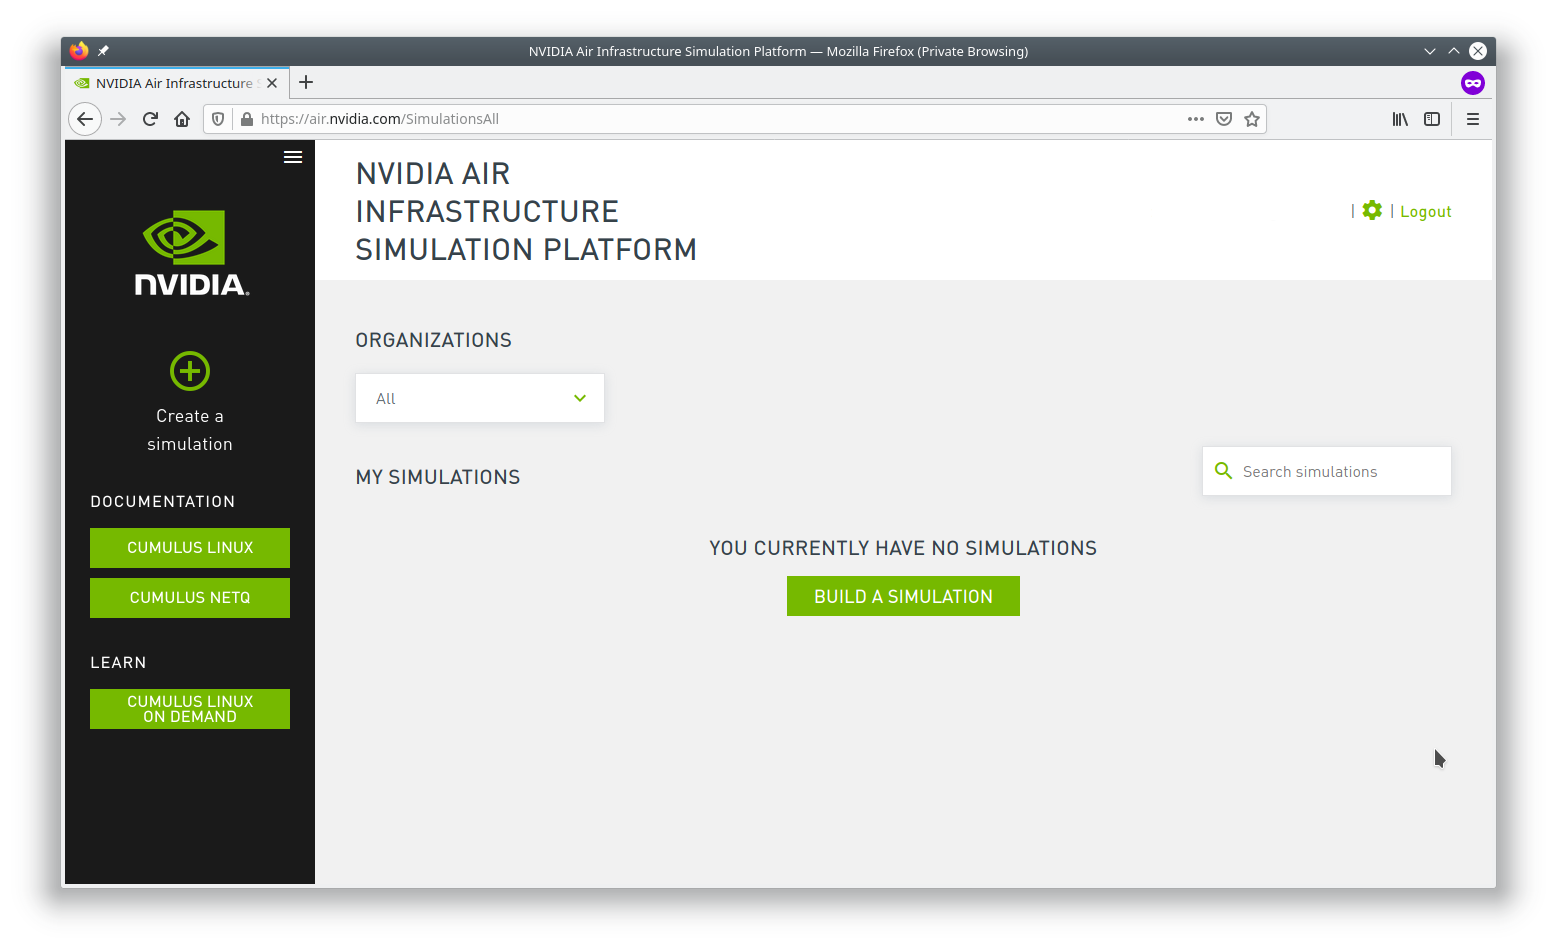
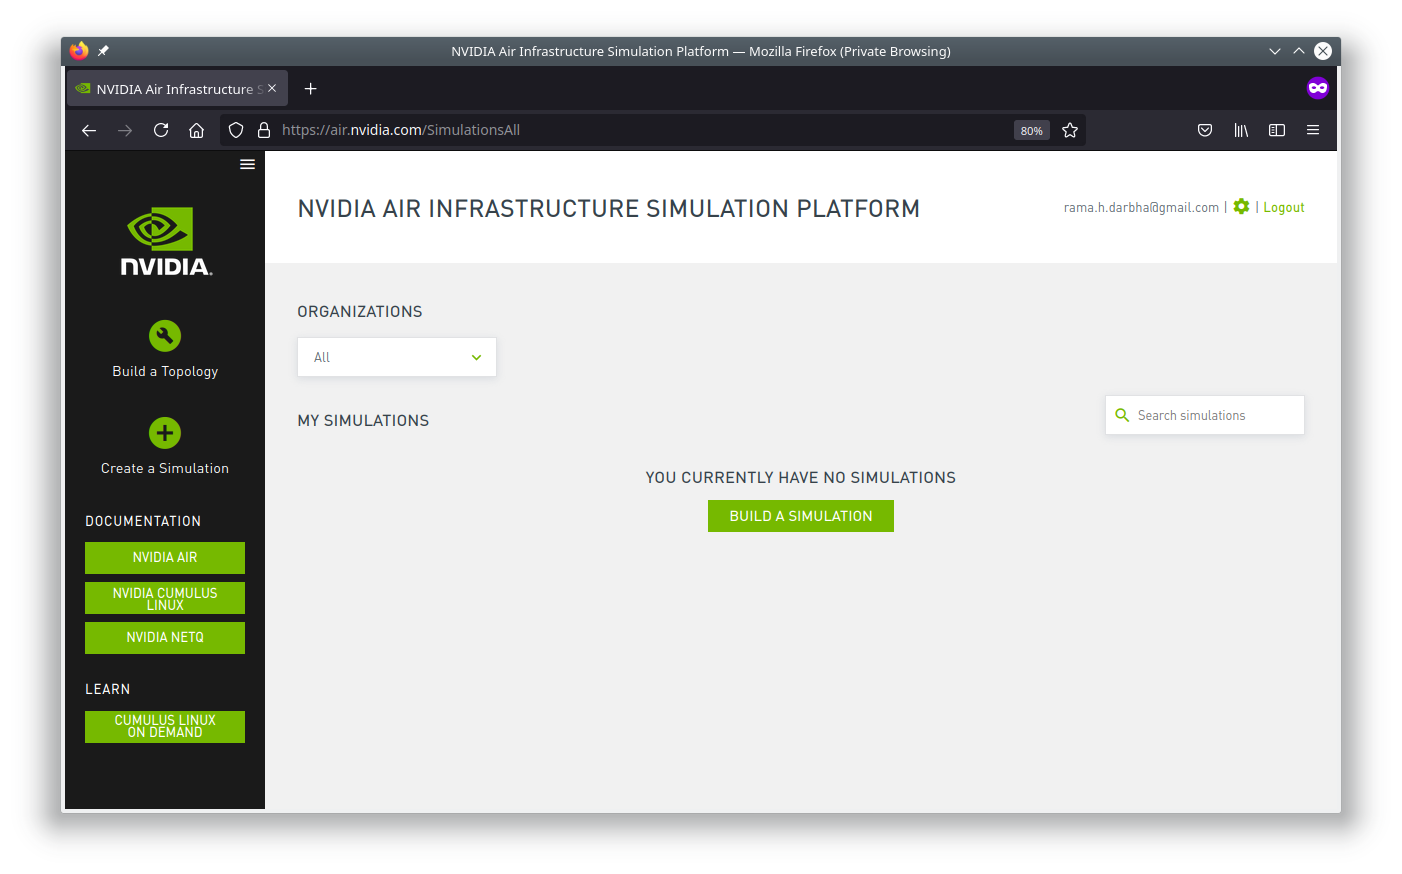
updating pictures with new functionality

diff --git a/content/guides/nvidia-air/Custom-Topology.md b/content/guides/nvidia-air/Custom-Topology.md
@@ -7,7 +7,11 @@ version: "1.0"
 
 NVIDIA Air fully supports the creation of custom topologies. This feature augments the pre-built demo infrastructure.
 
-To access the custom topologies, go to {{<exlink url="https://air.nvidia.com/build" text="air.nvidia.com/build">}}.
+To access the custom topologies click on the `Build a Topology` link in the rop left of the dashboard:
+
+{{<img src="/images/guides/nvidia-air/BuildaTopology.png">}}
+
+Alternatively, go directly via the link {{<exlink url="https://air.nvidia.com/build" text="air.nvidia.com/build">}}.
 
 ## Custom Topology Landing Page
 
